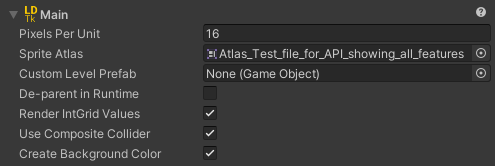
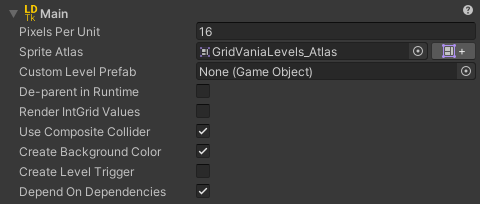
dependencies docs

diff --git a/DocFX/documentation/Importer/topic_Section_Dependencies.md b/DocFX/documentation/Importer/topic_Section_Dependencies.md
@@ -2,8 +2,7 @@
 
 Dependencies ensure to keep your LDtk asset updated when these dependencies change.    
 This section lists all of the dependencies for the inspected project/level.  
-When an LDtk project or level depends on an asset, then the project/level will reimport when a particular dependency is changed.  
-If any of these dependencies save changes, then this LDtk asset will automatically reimport.  
+When an LDtk project or level depends on an asset, then the project/level will reimport when a particular dependency is changed.
 
 ## Project Dependencies
 
@@ -20,3 +19,8 @@ Levels will also have a dependency on the source project asset.
 
 Any dependencies in levels are smartly depended on; only the IntGrid tiles and entities that are involved inside a level are depended on.  
 For example, the image above for the level will only depend on `Item` and `Ladder` because they are the only type of entities existing in this particular level. Whereas a project without separate levels files would depend on all used assets.
+
+## Depend On Dependencies
+Both the project and levels have a toggle field that can change if the associated level or project should reimport if dependencies are changed. (ex. saved changes to a prefab)  
+If turned off, then this LDtk project/level will not update the import result when the dependencies are changed (which includes updating prefabs in the import result), in which case you will need to manually reimport this project/level.  
+Only consider turning off if changes to assets are causing too many unwanted reimports.

diff --git a/DocFX/documentation/Importer/topic_Section_Main.md b/DocFX/documentation/Importer/topic_Section_Main.md
@@ -48,4 +48,8 @@ This is built to match exactly how the levels look in LDtk, however this will be
 This only affects the background color, and not the background image, if one was configured for a level in LDtk.
 
 ### Create Level Trigger
-Creates a PolygonCollider2D trigger that spans the level's area for each level. Useful in conjunction with Cinemachine for example.
+Creates a PolygonCollider2D trigger that spans the level's area for each level. 
+Useful in conjunction with Cinemachine for example.
+
+### Depend On Dependencies
+Used by both project and level. [See here.](topic_Section_Dependencies.md#depend-on-dependencies)

diff --git a/DocFX/documentation/Importer/topic_LevelImporter.md b/DocFX/documentation/Importer/topic_LevelImporter.md
@@ -22,6 +22,9 @@ The importer inspector displays a reference to the level's project which can be 
 The project can also be re-imported from here with a quick button.  
 ![Level Importer](../../images/img_Unity_LevelImporter.png)
 
+### Depend On Dependencies
+Used by both project and level. [See here.](topic_Section_Dependencies.md#depend-on-dependencies)
+
 ## Nested Prefabs
 Imported LDtk levels can be nested in prefabs.  
 ![Nested Levels](../../images/img_Unity_NestedLevels.png)
